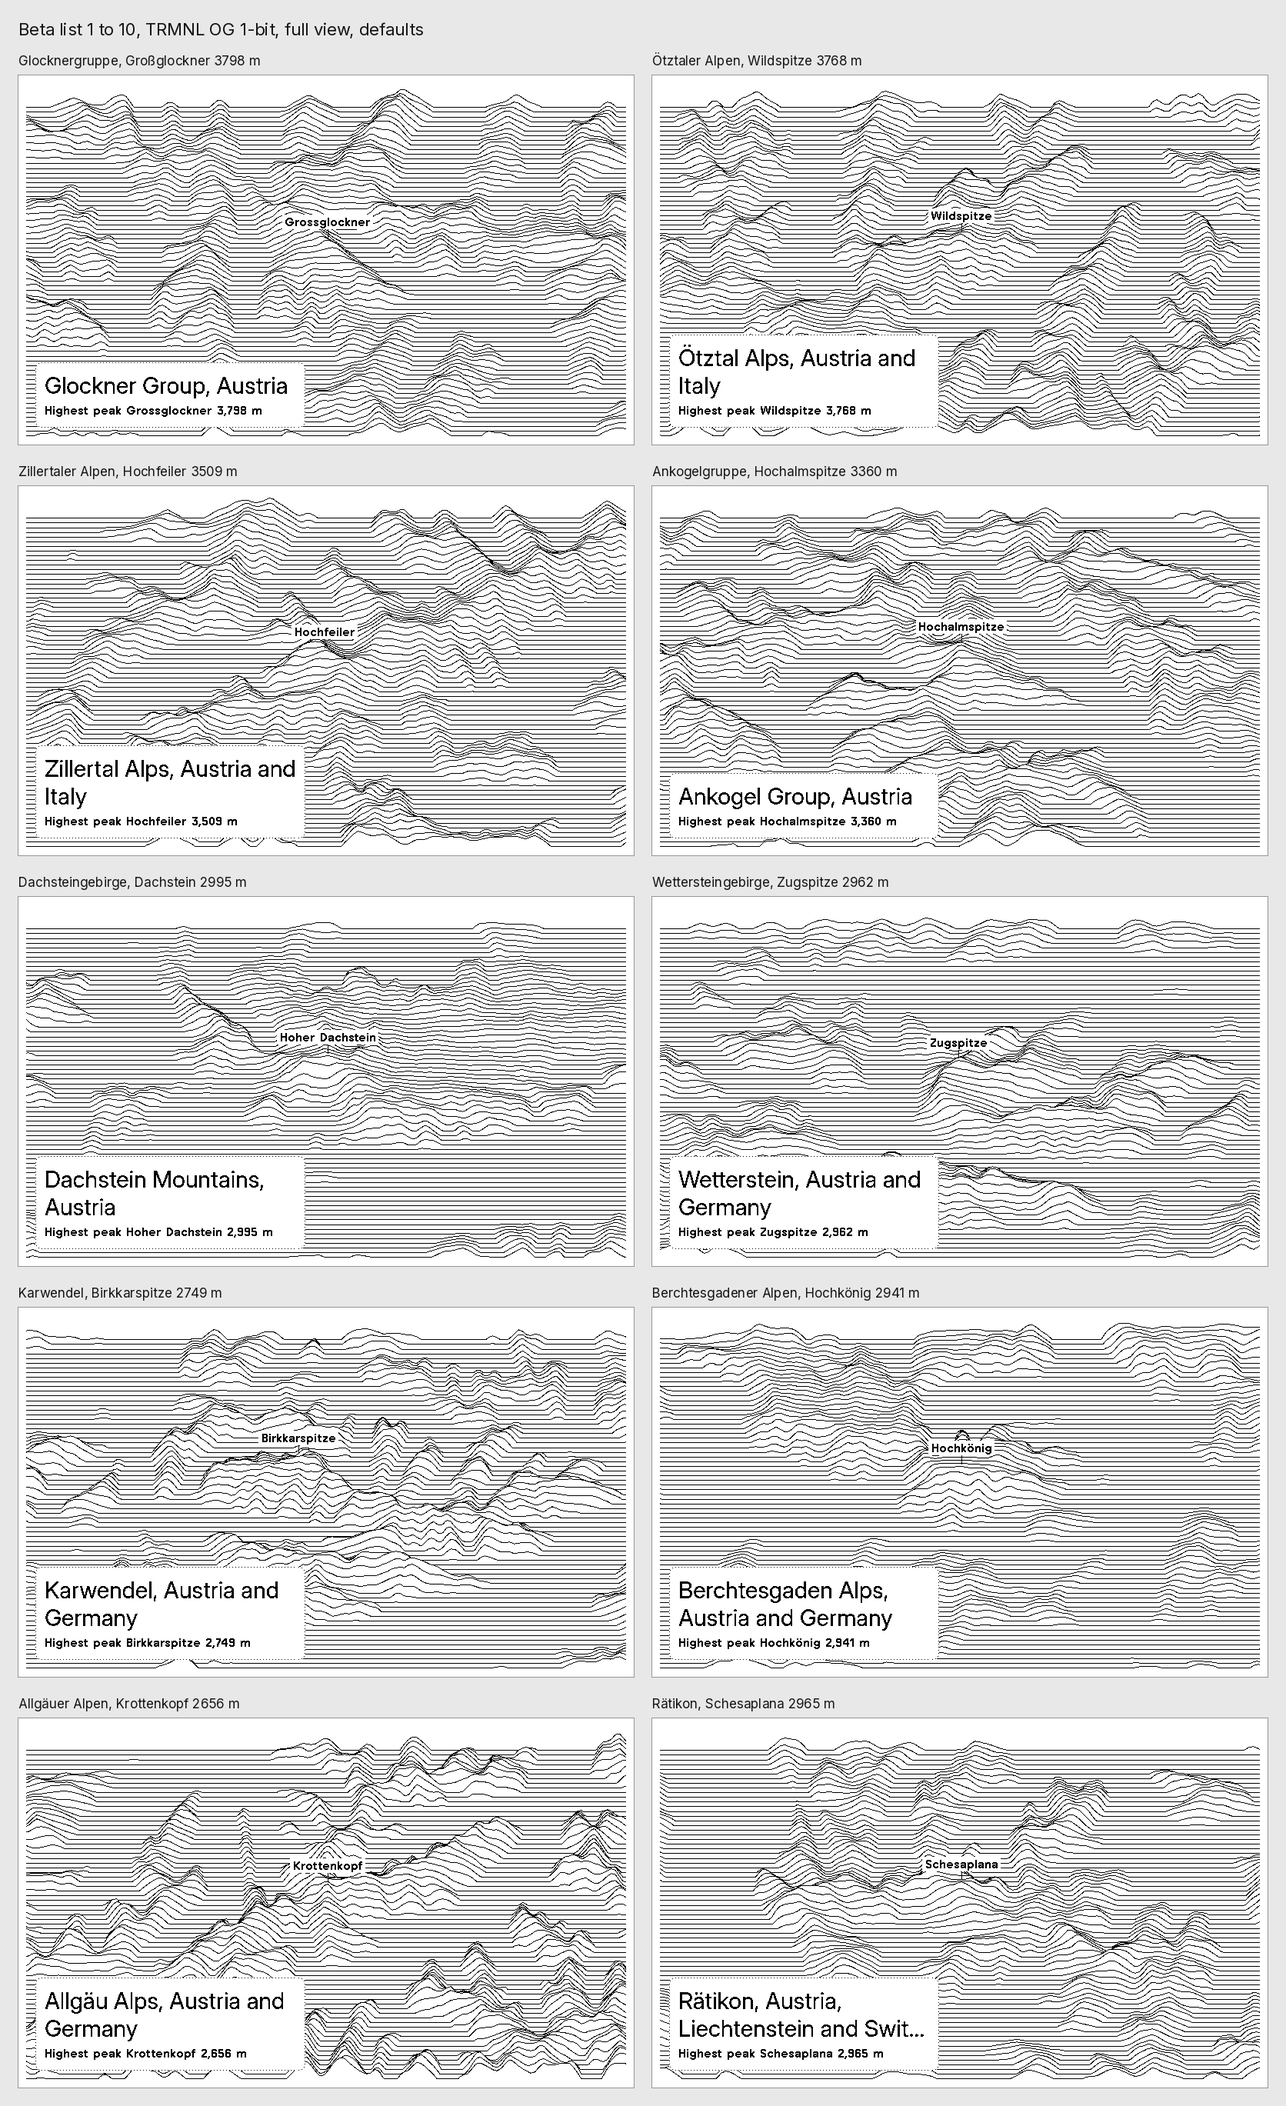
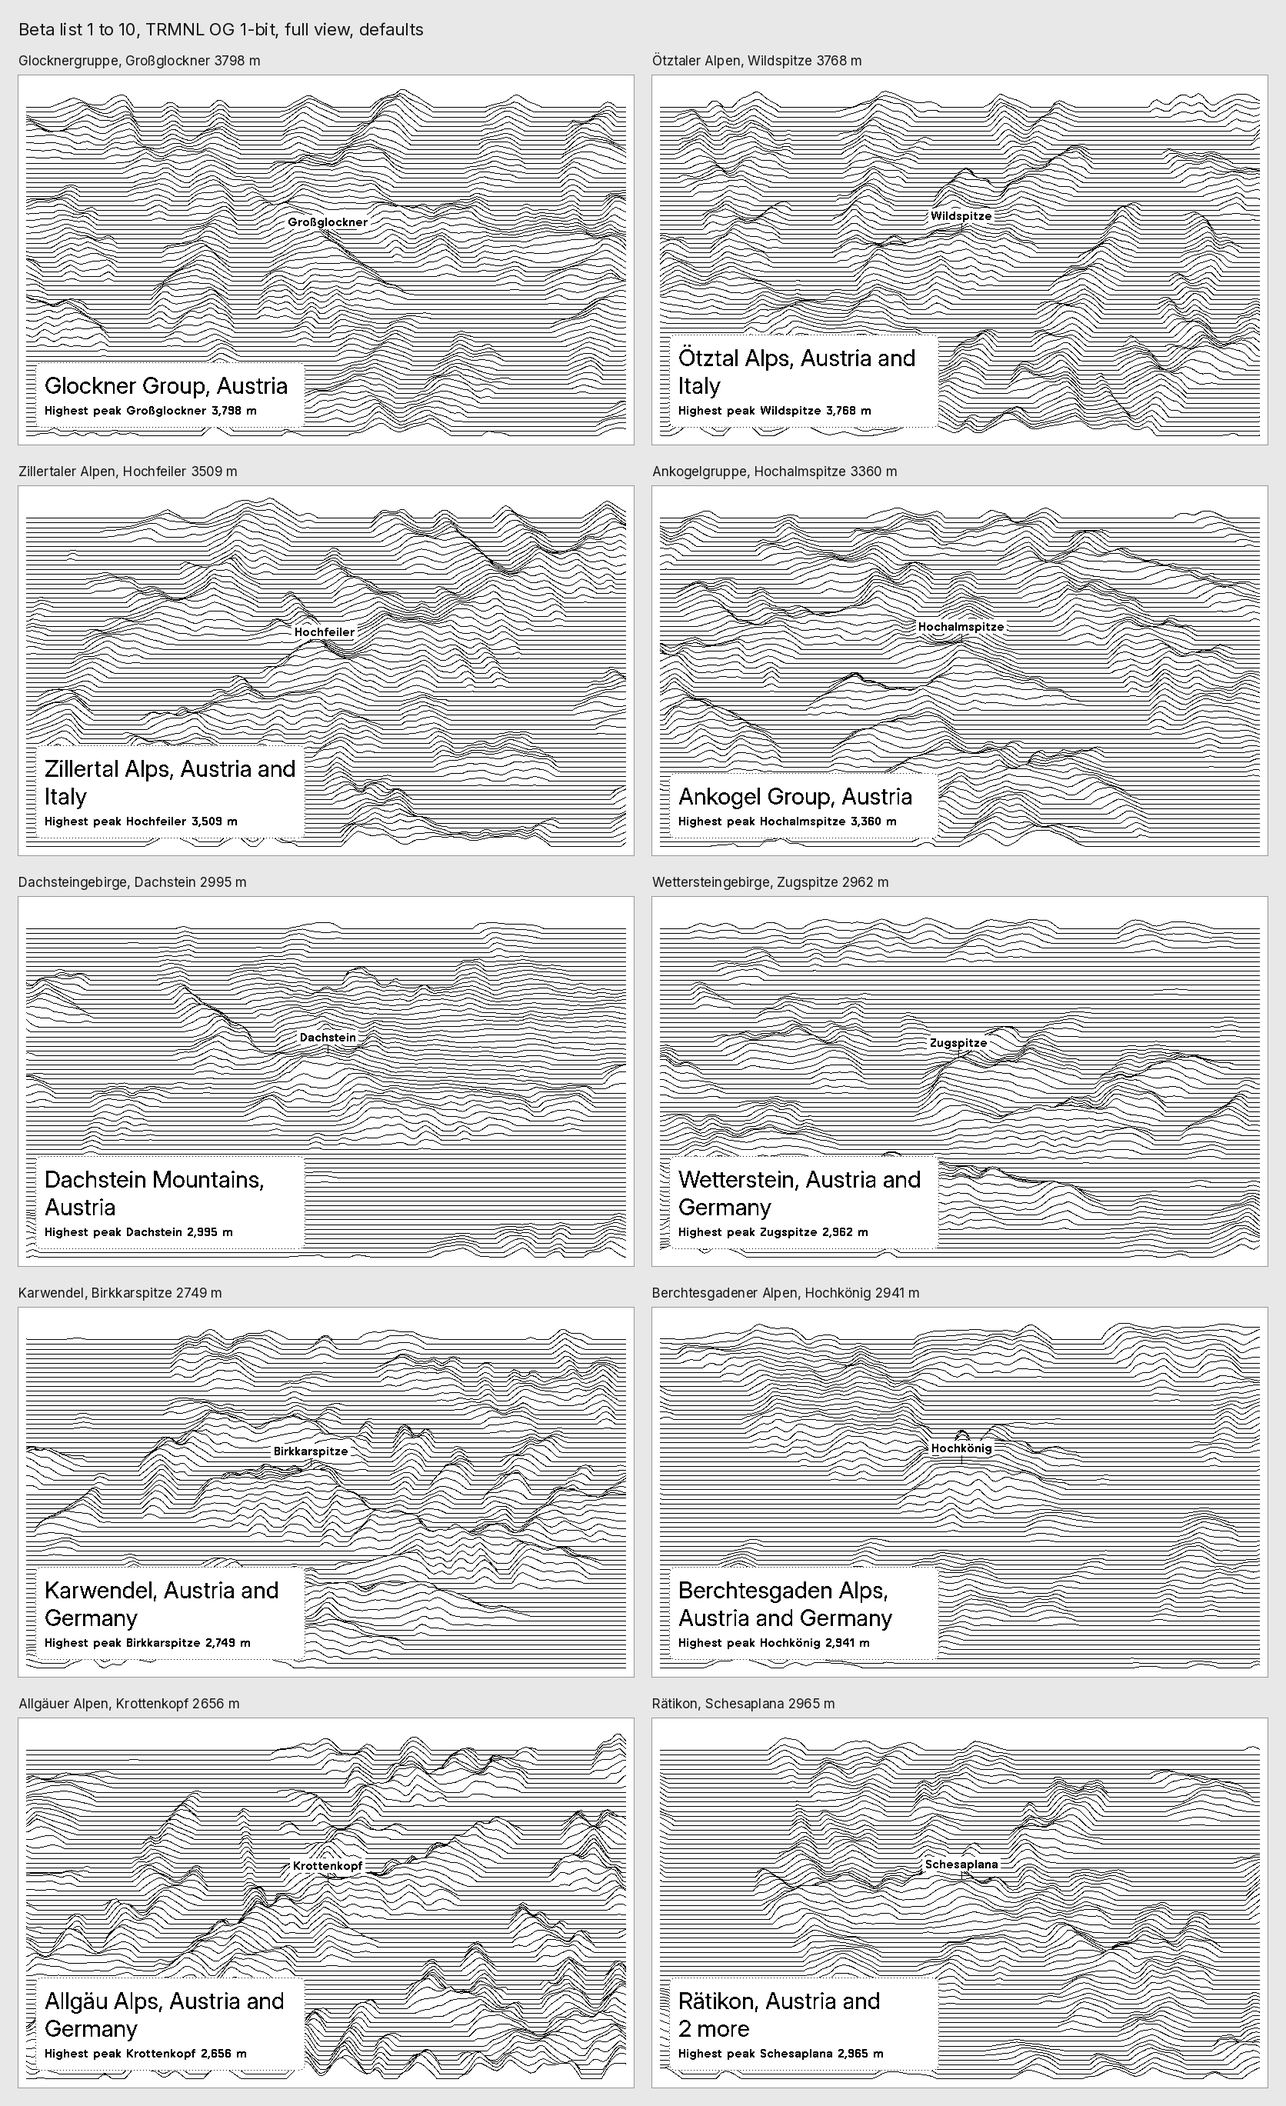
Use local peak names in every language and shorten long country lists
Peak names come from Wikidata's native label, else the label in the
summit country's official language, so Großglockner reads the same in
English and German. Ranges in more than two countries show the first
country and a count, with the summit's countries first.

Claude-Session: https://claude.ai/code/session_011J9r76qSP61jnjWWAav2AA

Changed region(s): [[0.0311, 0.6209, 0.4976, 0.7761], [0.6531, 0.9313, 0.6842, 0.9624], [0.4665, 0.7451, 0.4976, 0.7761]]

diff --git a/tools/mockup/fixtures.py b/tools/mockup/fixtures.py
@@ -66,32 +66,26 @@ SHORT_COUNTRY = {
 }
 
 
-def countries(cs):
-    """Country names per language from "Qid<TAB>en<TAB>de|..." rows, short forms where listed,
-    each language sorted alphabetically so the order is stable."""
+def countries(cs, summit=()):
+    """Country names per language from "Qid<TAB>en<TAB>de|..." rows, short forms where listed.
+    The summit's own countries come first, then the rest, each group in the language's
+    alphabetical order: "Austria, Liechtenstein, Switzerland" for the Rätikon, whose summit
+    lies in Austria and Switzerland. The template shows more than two as the first plus a count."""
     rows = sorted(tuple(r.split("\t")) for r in (cs or "").split("|") if r)
-    rows = [SHORT_COUNTRY.get(q, (en, de)) for q, en, de in rows]
-    # each language in its own alphabetical order: "Austria, Germany", "Deutschland, Österreich"
     de_key = lambda n: n.replace("Ä", "A").replace("Ö", "O").replace("Ü", "U")
-    return {"en": ", ".join(sorted(r[0] for r in rows)), "de": ", ".join(sorted((r[1] for r in rows), key=de_key))}
+    out = {}
+    for i, key in ((0, lambda n: n), (1, de_key)):
+        names = [(q in summit, SHORT_COUNTRY.get(q, (en, de))[i]) for q, en, de in rows]
+        first = sorted((n for s_, n in names if s_), key=key)
+        out["en" if i == 0 else "de"] = ", ".join(first + sorted((n for s_, n in names if not s_), key=key))
+    return out
 
 
-def wikidata(qid):
-    q = """SELECT ?rl ?rde ?pl ?pde ?elev ?coord
-      (GROUP_CONCAT(DISTINCT CONCAT(STRAFTER(STR(?c), "entity/"), "\t", ?cl, "\t", COALESCE(?cdl, ?cl)); separator="|") AS ?cs)
-      WHERE {
-      BIND(wd:%s AS ?r)
-      ?r rdfs:label ?rl FILTER(lang(?rl)="en")
-      OPTIONAL { ?r rdfs:label ?rde FILTER(lang(?rde)="de") }
-      ?r wdt:P610 ?p . ?p rdfs:label ?pl FILTER(lang(?pl)="en")
-      OPTIONAL { ?p rdfs:label ?pde FILTER(lang(?pde)="de") }
-      ?p wdt:P2044 ?elev . ?p wdt:P625 ?coord .
-      OPTIONAL { ?r wdt:P17 ?c . ?c rdfs:label ?cl FILTER(lang(?cl)="en")
-                 OPTIONAL { ?c rdfs:label ?cdl FILTER(lang(?cdl)="de") } }
-    } GROUP BY ?rl ?rde ?pl ?pde ?elev ?coord""" % qid
-    url = "https://query.wikidata.org/sparql?" + urllib.parse.urlencode({"query": q, "format": "json"})
-    cache = os.path.join(CACHE, "wikidata", qid + ".v2.json")   # live on first run; delete to refresh
+def sparql(q, name):
+    """Live Wikidata query, cached in .cache/wikidata/<name>.json (delete to refresh)."""
+    cache = os.path.join(CACHE, "wikidata", name + ".json")
     if not os.path.exists(cache):
+        url = "https://query.wikidata.org/sparql?" + urllib.parse.urlencode({"query": q, "format": "json"})
         req = urllib.request.Request(url, headers={"User-Agent": UA})
         for attempt in range(4):
             try:
@@ -102,17 +96,65 @@ def wikidata(qid):
                     raise
         os.makedirs(os.path.dirname(cache), exist_ok=True)
         open(cache, "wb").write(body)
-    rows = json.load(open(cache))["results"]["bindings"]
+    return json.load(open(cache))["results"]["bindings"]
+
+
+def local_name(pqid, en, de):
+    """The peak's local name, used in every language (Niko, 2026-10-02: Großglockner and
+    Mont Blanc in English and German alike). 1. Wikidata's native label (P1705); with
+    several (Mont Blanc: French and Italian), the one matching the English or German label.
+    2. Otherwise the label in the official language (P37) of the peak's country; for a
+    border summit with several, the one matching the German or English label.
+    3. Otherwise the English label."""
+    rows = sparql("""SELECT ?kind ?val ?lng WHERE {
+      { wd:%s wdt:P1705 ?val . BIND("native" AS ?kind) BIND(LANG(?val) AS ?lng) }
+      UNION { wd:%s wdt:P17 ?c . ?c wdt:P37 ?l . ?l wdt:P424 ?lng . BIND("official" AS ?kind)
+              OPTIONAL { wd:%s rdfs:label ?val FILTER(LANG(?val) = ?lng) } }
+    }""" % (pqid, pqid, pqid), pqid + ".names")
+    get = lambda r, k: r[k]["value"] if k in r else None
+    native = [get(r, "val") for r in rows if get(r, "kind") == "native" and get(r, "val")]
+    if native:
+        return next((n for n in native if n in (en, de)), native[0]), "native label"
+    official = {get(r, "lng"): get(r, "val") for r in rows if get(r, "kind") == "official" and get(r, "val")}
+    if len(official) == 1:
+        lng, val = next(iter(official.items()))
+        return val, f"official language ({lng})"
+    # A border summit has several official languages: take the one whose name matches the
+    # German or English label (Hochstuhl: German "Hochstuhl" over Slovene "Stol").
+    for want in (de, en):
+        for lng, val in official.items():
+            if val == want:
+                return val, f"official language ({lng}), border"
+    return en or de, "English label"
+
+
+def wikidata(qid):
+    rows = sparql("""SELECT ?p ?rl ?rde ?pl ?pde ?elev ?coord
+      (GROUP_CONCAT(DISTINCT CONCAT(STRAFTER(STR(?c), "entity/"), "\t", ?cl, "\t", COALESCE(?cdl, ?cl)); separator="|") AS ?cs)
+      (GROUP_CONCAT(DISTINCT STRAFTER(STR(?pc), "entity/"); separator="|") AS ?pcs)
+      WHERE {
+      BIND(wd:%s AS ?r)
+      ?r rdfs:label ?rl FILTER(lang(?rl)="en")
+      OPTIONAL { ?r rdfs:label ?rde FILTER(lang(?rde)="de") }
+      ?r wdt:P610 ?p . ?p rdfs:label ?pl FILTER(lang(?pl)="en")
+      OPTIONAL { ?p rdfs:label ?pde FILTER(lang(?pde)="de") }
+      ?p wdt:P2044 ?elev . ?p wdt:P625 ?coord .
+      OPTIONAL { ?r wdt:P17 ?c . ?c rdfs:label ?cl FILTER(lang(?cl)="en")
+                 OPTIONAL { ?c rdfs:label ?cdl FILTER(lang(?cdl)="de") } }
+      OPTIONAL { ?p wdt:P17 ?pc }
+    } GROUP BY ?p ?rl ?rde ?pl ?pde ?elev ?coord""" % qid, qid + ".v4")
     if not rows:
         raise SystemExit(f"{qid}: no Wikidata row with highest point, elevation and coordinates")
     v = lambda b, k: b[k]["value"] if k in b else None
     b = max(rows, key=lambda b: float(b["elev"]["value"]))  # some peaks carry two elevations
     lon, lat = map(float, v(b, "coord")[6:-1].split())
+    pqid = v(b, "p").rsplit("/", 1)[-1]
+    local, source = local_name(pqid, v(b, "pl"), v(b, "pde"))
     return dict(
         qid=qid, name={"en": v(b, "rl"), "de": v(b, "rde") or v(b, "rl")},
-        peak={"en": v(b, "pl"), "de": v(b, "pde") or v(b, "pl")},
+        peak={"en": local, "de": local}, peak_name_source=source, peak_labels={"en": v(b, "pl"), "de": v(b, "pde")},
         peak_m=round(float(v(b, "elev"))), peak_lat=lat, peak_lon=lon,
-        country=countries(v(b, "cs")),
+        country=countries(v(b, "cs"), (v(b, "pcs") or "").split("|")),
         elevations_listed=sorted({round(float(r["elev"]["value"])) for r in rows}),
     )
 
@@ -255,7 +297,7 @@ def build(key, suffix=""):
             },
             "wikidata": {"en": "Range facts: Wikidata (CC0).", "de": "Gebirgsdaten: Wikidata (CC0)."},
         },
-        _checks=dict(peak_point_m=round(at_peak), peak_point_ok=peak_ok, peak_source=source,
+        _checks=dict(peak_name_source=wd["peak_name_source"], peak_labels=wd["peak_labels"], peak_point_m=round(at_peak), peak_point_ok=peak_ok, peak_source=source,
                      peak_snap_km=round(snap, 2), peak_found_m=round(peak_found_m), spike_pixels=spikes, above_peak_pixels=above_peak, raw_max_m=round(zmax_raw, 1), ocean_share=round(ocean, 3),
                      peak_in_square=bool(abs(peak_xy[0]) < side / 2 and abs(peak_xy[1]) < side / 2),
                      wikidata_elevations=wd["elevations_listed"]),

diff --git a/tools/mockup/render.py b/tools/mockup/render.py
@@ -42,7 +42,8 @@ SETTINGS = dict(
     language="en",      # en (US English) or de
     units="metric",     # metric or imperial
 )
-UI = {"en": {"and": "and", "highest": "Highest peak"}, "de": {"and": "und", "highest": "Höchster Gipfel"}}
+UI = {"en": {"and": "and", "highest": "Highest peak", "more": "and {n}\u00a0more"},
+      "de": {"and": "und", "highest": "Höchster Gipfel", "more": "und {n}\u00a0weitere"}}
 
 # Box classes per view, following Downstream's text box (recipe/src/*.liquid there).
 BOX = {
@@ -65,13 +66,17 @@ def fmt_height(m, s):
 
 
 def countries(e, lang):
+    """One or two countries in full; more than two as the first plus a count (Niko,
+    2026-10-02): "Austria and 2 more", "Österreich und 2 weitere"."""
     c = [x for x in e["country"][lang].split(", ") if x]
-    return c[0] if len(c) < 2 else ", ".join(c[:-1]) + f" {UI[lang]['and']} " + c[-1]
+    if len(c) > 2:
+        return c[0] + " " + UI[lang]["more"].format(n=len(c) - 1)
+    return " ".join([c[0], UI[lang]["and"], c[1]]) if len(c) == 2 else (c[0] if c else "")
 
 
 def caption(e, view, s, portrait=False):
     lang = s["language"]
-    name, peak, country = e["name"][lang], e["peak"][lang], e["country"][lang]
+    name, peak, country = e["name"][lang], e["peak"][lang], countries(e, lang)
     if view == "full":
         parts = [name, f"{peak} {fmt_height(e['peak_m'], s)}"] + ([] if portrait else [country])
     elif view == "half_horizontal":

diff --git a/PROJECT.md b/PROJECT.md
@@ -23,6 +23,8 @@ Full requirements live in [docs/brief.md](docs/brief.md), a snapshot of the livi
 | 2026-10-02 | Launch with about 120 entries on a loop, grow the list in later releases | Niko |
 | 2026-10-02 | Beta first: ranges in Germany and Austria only, for Niko to beta test before the worldwide list. The pipeline is built once for all areas; the beta only narrows the curated list | Niko |
 | 2026-10-02 | Grey screens draw black lines only, no shading by height | Niko, after docs/mockups/shade_ogv2.png and shade_v2.png |
+| 2026-10-02 | Peak names are the local name in every language: Großglockner and Mont Blanc in English and German alike. Source order: Wikidata native label (P1705), picking the one that matches the English or German label when there are several (Mont Blanc over Monte Bianco); else the label in the official language (P37) of the summit's country, for a border summit the one matching the German or English label (Hochstuhl over Stol); else the English label. Range names stay translated | Niko. tools/mockup/fixtures.py `local_name` |
+| 2026-10-02 | Ranges in more than two countries show the first country and a count: "Rätikon, Austria and 2 more", "Rätikon, Österreich und 2 weitere". The summit's countries come first | Niko. tools/mockup/render.py `countries` |
 | 2026-10-02 | All licensing goes on the About page (the settings.yml `author_bio` field), as in the other recipes: the GLO-90 notice, the liability sentence, and the Wikidata credit. Nothing on screen. The GLO-90 licence names no place for the notice (Findings, GLO-90 licence) | Niko |
 | 2026-10-01 | Settings: peak name above the highest peak (boolean, on), title bar (boolean, off), info box at bottom left in Downstream's text box style with range and country as headline and "Highest peak Birkkarspitze 2,749 m" smaller below (German "Höchster Gipfel Birkkarspitze 2.749 m", imperial "9,020 ft" to the nearest 10 ft) (boolean, on), language (select: English (US) or German, English default), units (select: metric or imperial, metric default). Replaces the brief's Caption show/hide setting |
 | 2026-10-01 | Area is a multi select, like Downstream's Region field (`field_type: select`, `multiple: true`). Options: Europe, Americas, Asia and Oceania, Africa. None ticked shows every area; one shows that area; several rotate through the ticked ones. Replaces the brief's single select with a World option. Rotation is the shared calendar, filtered (Niko, 2026-10-01): the Worker takes the ticked areas and picks the next calendar entry at or after today's slot whose area is in the set, so devices with the same ticks see the same range on the same day, and several ticks interleave in calendar order rather than strictly alternating | Niko |
@@ -50,7 +52,7 @@ Each finding is dated. Re-check before relying on it.
 - **2026-10-02, GLO-90 licence.** The AWS registry links the Copernicus Data Space COP-DEM page, which links the licence bundle (copernicus_contributing_mission_data_access_v2_cop_dem_licenses.pdf, June 2025) and the ESA mission annex (CSCDA_ESA_Mission-specific_Annex_31_Oct_22_latest.pdf). Both contain the same separate licence, "COP-DEM-GLO-90-F Global 90m Full, Free & Open" (Article 6 compared word for word). It differs from the GLO-30 text the brief checked. Terms: rights to reproduce, distribute, communicate to the general public, and adapt, modify and combine; worldwide, no time limit, free of charge. No non-commercial clause, so Creator Fund payouts are fine. Obligations under Article 6: (a) the source notice for unmodified data. (b) For adapted data, which Ridgelines is (resampled, smoothed, local relief): "produced using Copernicus WorldDEM™-90 © DLR e.V. 2010-2014 and © Airbus Defence and Space GmbH 2014-2018 provided under COPERNICUS by the European Union and ESA; all rights reserved". (c) The liability sentence, translation allowed, "in a licence or any legal warning or notice covering" the distribution. (d) No implied endorsement. (e) Pass the obligations on to subsequent users. The licence names no place for the notice; it only says where the liability sentence goes. Using the WorldDEM trademark is allowed in this context. The Copernicus trademark has its own licence on copernicus.eu, not checked. The restricted GLO-30-R and EEA-10-R instances in the same bundle carry non-commercial clauses; they do not apply to GLO-90. fixtures.py now writes the exact notice, plus the liability sentence in English and German, into each entry. *Re-check:* reopen both PDFs from the COP-DEM page before launch, and read the Copernicus trademark licence if "Copernicus" appears outside the notice. Not legal advice.
 - **2026-10-02, shading by height.** Tried on 2-bit OG and 4-bit TRMNL X for Karwendel, Glockner, Rwenzori and Cuillin, using framework grey tokens through TRMNLPaint.bg() (2-bit gets the framework's dither tile). The light version (gray-75 above half height) is barely visible on either screen. The two step version (gray-75 above 30 %, gray-55 above 65 %) marks the high ground, but leaves blocky rectangles where a fill runs past the next line, and competes with the lines. Look option `shade` in template/ridgelines.js (off by default, tuning only), sweep mode `shade`. *Decided 2026-10-02:* black lines only.
 - **2026-10-02, beta candidates in Germany and Austria.** Live Wikidata query: 382 mountain ranges (instances of Q46831 or its subclasses) with P17 Germany or Austria, plus a highest point (P610) that has elevation (P2044) and coordinates (P625). 2 lack a German label, 29 an English one. They share 297 distinct highest points, because nested groupings repeat summits (Alpen, Ostalpen, Zentrale Ostalpen and a SOIUSA duplicate all point to Mont Blanc or Piz Bernina; Hohe Tauern, Glocknergruppe and two more to the Großglockner). 278 of those summits lie in Germany or Austria themselves. By height: 267 at 300 m or more, 226 at 500 m, 157 at 800 m, 141 at 1,000 m. The lowest are hills such as the Rekener Berge (134 m). Curation for the beta: one entry per summit, drop groupings whose summit lies outside DE and AT, and drop hills too flat to draw (the build's flat flag decides, not a fixed height). *Re-check:* rerun the query when building the list; Wikidata changes.
-- **2026-10-02, beta list built.** All 30 entries in data/beta_de_at.json build from GLO-90 and render on OG 1-bit at the defaults (docs/mockups/beta_1.png to beta_3.png). Each entry is about 55 kB. Every listed summit sits on high ground, so no sign flips were needed. Mangfallgebirge and Höllengebirge have 2 spike samples each, which the build replaces. Open details: the Rätikon headline is cut by the two line clamp ("Rätikon, Austria, Liechtenstein and Swit…"). English peak labels come from Wikidata as they are ("Grossglockner", "Grosser Speikkogel", "Stol / Hochstuhl"). *Re-check:* `python fixtures.py --list ../../data/beta_de_at.json`, then `python sweep.py beta`.
+- **2026-10-02, beta list built.** All 30 entries in data/beta_de_at.json build from GLO-90 and render on OG 1-bit at the defaults (docs/mockups/beta_1.png to beta_3.png). Each entry is about 55 kB. Every listed summit sits on high ground, so no sign flips were needed. Mangfallgebirge and Höllengebirge have 2 spike samples each, which the build replaces. Both open details are now settled: local peak names in every language, and "and 2 more" for the Rätikon (Decisions, 2026-10-02). *Re-check:* `python fixtures.py --list ../../data/beta_de_at.json`, then `python sweep.py beta`.
 - **2026-10-01, payload cap.** Private plugins reject polled payloads over 100 KB (TRMNL help article "Parsing plugins with the Sandbox Runtime", dated Aug 28, 2026). Unknown whether the cap applies before or after compression. *Re-check:* reopen the article before sizing the payload.
 - **2026-10-01, elevation spikes.** In the JAXA demo tiles, raw pixels in the Karwendel crop reach 3,011 m (2,935 m at the point sampled for the brief). The documented high point is 2,749 m (Birkkarspitze). tools/mockup clips to the documented maximum and patches around the spike. *Re-check:* run the fixture corpus through Copernicus GLO-90 and count pixels above each range's documented high point.
 - **2026-10-01, busy terrain.** Without a height floor the drawing is too busy on 1-bit screens. A floor at the 40th percentile calmed the chosen mockup. *Re-check:* across the full fixture corpus.
